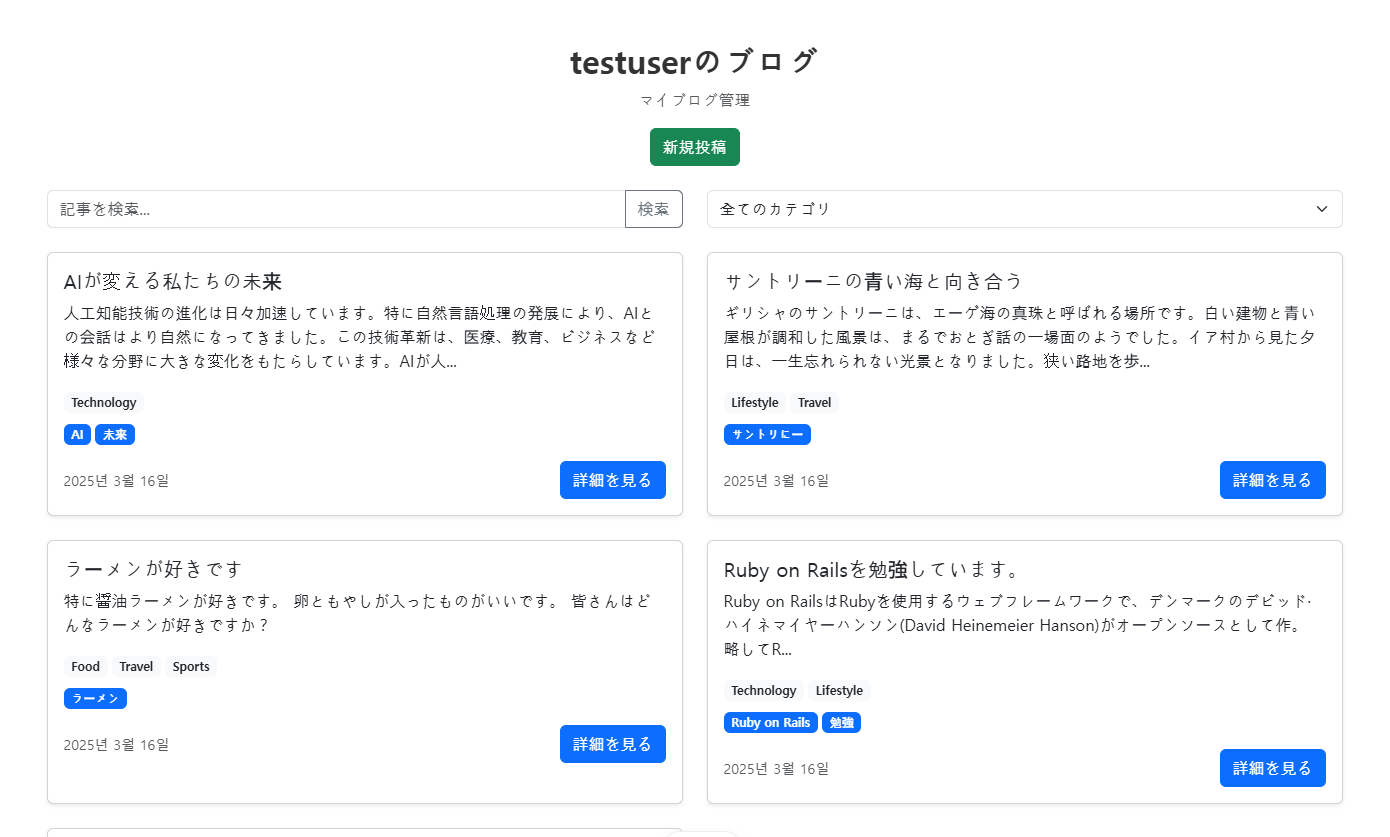
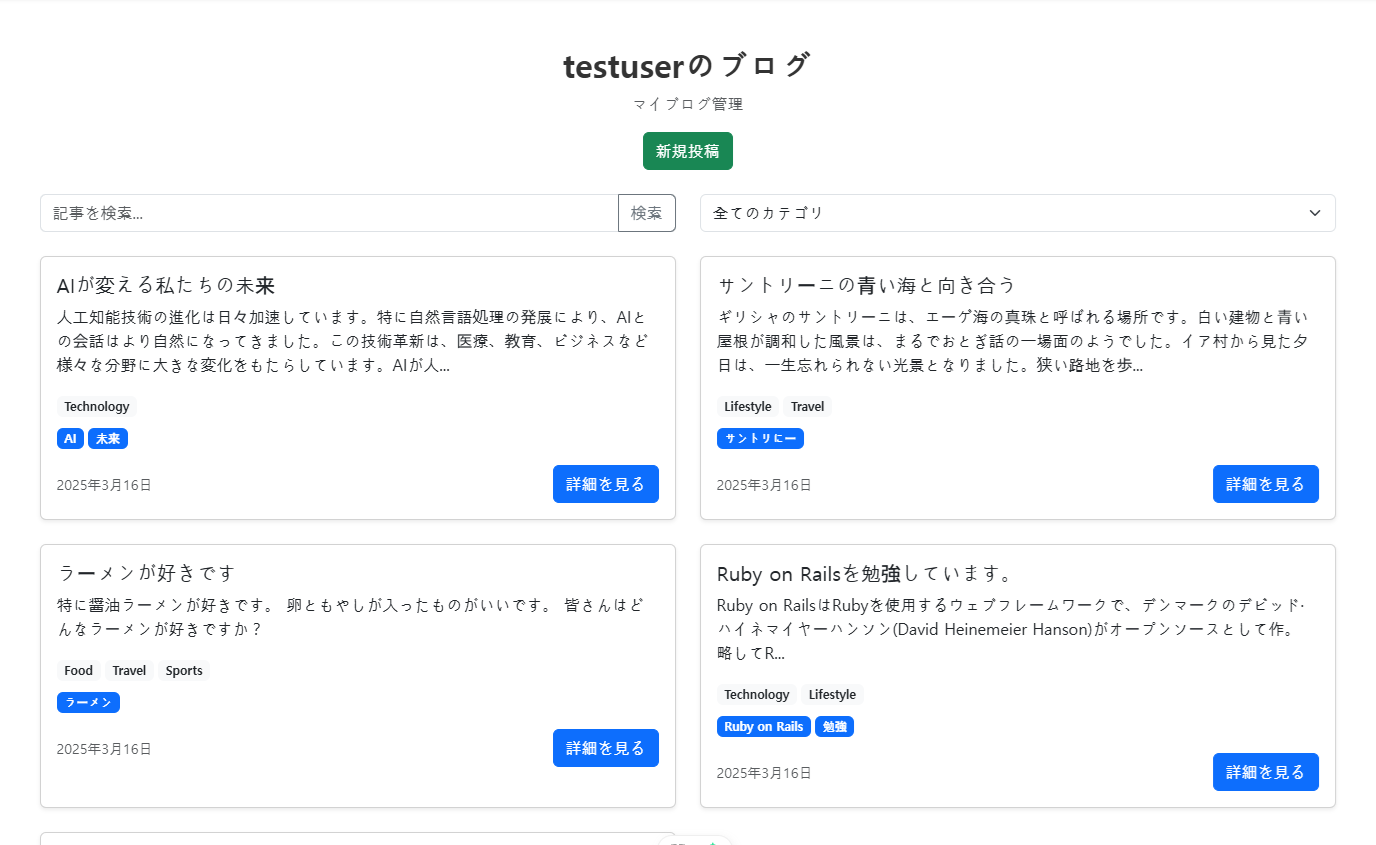
feat: EditPostView JP

diff --git a/frontend/mypjt/src/views/EditPostView.vue b/frontend/mypjt/src/views/EditPostView.vue
@@ -2,33 +2,33 @@
     <div class="container py-4">
       <h2 class="text-center mb-4">게시물 수정</h2>
       
-      <!-- 오류 메시지 -->
+      <!-- エラーメッセージ -->
       <div v-if="error" class="alert alert-danger">{{ error }}</div>
       
-      <!-- 로딩 상태 -->
+      <!-- ローディング状態 -->
       <div v-if="isLoading" class="text-center py-5">
         <div class="spinner-border text-primary"></div>
-        <p class="mt-2">게시물을 불러오는 중입니다...</p>
+        <p class="mt-2">記事を読み込む中</p>
       </div>
   
-      <!-- 게시물 수정 폼 -->
+      <!-- 投稿修正フォーム -->
       <div v-else class="row">
         <div class="col-lg-8 col-md-10 mx-auto">
           <form @submit.prevent="updatePost">
-            <!-- 제목 입력 -->
+            <!-- タイトル入力 -->
             <div class="mb-3">
-              <label for="title" class="form-label">제목</label>
+              <label for="title" class="form-label">タイトル</label>
               <input 
                 type="text" 
                 class="form-control" 
                 id="title" 
                 v-model="postForm.title" 
                 required 
-                placeholder="제목을 입력하세요"
+                placeholder="タイトルを入力してください"
               >
             </div>
             
-            <!-- 내용 입력 -->
+            <!-- 内容入力 -->
             <div class="mb-3">
               <label for="content" class="form-label">내용</label>
               <textarea 
@@ -37,11 +37,11 @@
                 v-model="postForm.content" 
                 rows="10" 
                 required 
-                placeholder="내용을 입력하세요"
+                placeholder="内容を入力してください"
               ></textarea>
             </div>
 
-          <!-- 해시태그 입력 영역 -->
+          <!-- タグ入力エリア -->
           <div class="mb-3">
             <label class="form-label">해시태그</label>
             <div class="d-flex align-items-center mb-2">
@@ -50,14 +50,14 @@
                 class="form-control me-2" 
                 v-model="newTag" 
                 @keyup.enter="addTag"
-                placeholder="해시태그 입력 (엔터로 추가)"
+                placeholder="タグを入力"
               >
               <button type="button" class="btn btn-primary" @click="addTag">
-                추가
+                タグを追加
               </button>
             </div>
             
-            <!-- 태그 목록 -->
+            <!-- タグ一覧 -->
             <div class="d-flex flex-wrap gap-2 mt-2">
               <span 
                 v-for="(tag, index) in postForm.tags" 
@@ -75,7 +75,7 @@
             </div>
           </div>
             
-            <!-- 카테고리 선택 -->
+            <!-- カテゴリ選択 -->
             <div class="mb-3">
               <label class="form-label">카테고리</label>
               <div class="d-flex flex-wrap">
@@ -95,14 +95,14 @@
             </div>
           
 
-            <!-- 버튼 그룹 -->
+            <!-- ボタン -->
             <div class="d-flex justify-content-between">
               <RouterLink :to="`/${username}/posts/${postId}`" class="btn btn-secondary">
-                취소
+                キャンセル
               </RouterLink>
               <button type="submit" class="btn btn-primary" :disabled="isSubmitting">
                 <span v-if="isSubmitting" class="spinner-border spinner-border-sm me-1"></span>
-                수정
+                投稿する
               </button>
             </div>
           </form>
@@ -122,11 +122,11 @@
   const authStore = useAuthStore();
   const API_URL = 'http://localhost:3000/api/v1';
   
-  // URL에서 id 가져오기
+  // URLからID取得
   const postId = ref(route.params.id || '');
   const username = ref(authStore.user?.username || '');
   
-  // 게시물 폼 데이터
+  // 投稿フォームデータ
   const postForm = ref({
     title: '',
     content: '',
@@ -134,47 +134,47 @@
     tags: [],
   });
   
-  // 상태 관리
+  // 状態管理
   const isLoading = ref(true);
   const isSubmitting = ref(false);
   const error = ref('');
   
-  // store에서 카테고리 가져오기
+  // storeからカテゴリ取得
   import { useBlogStore } from '@/stores/blog';
   const blogStore = useBlogStore();
   const categories = computed(() => blogStore.categories);
 
-    // 새 태그 입력
+    // 新タグ入力
   const newTag = ref('');
 
-  // 태그 추가 메서드
+  //タグ追加メソッド
   const addTag = () => {
     if (newTag.value.trim()) {
-      // 중복 태그 방지 및 공백 제거
+      // 重複タグの防止と空白の除去
       const cleanedTag = newTag.value.trim().replace(/^#/, '');
       
-      // 이미 존재하지 않는 태그만 추가
+      // 既に存在しないタグのみ追加
       if (!postForm.value.tags.includes(cleanedTag)) {
         postForm.value.tags.push(cleanedTag);
-        newTag.value = ''; // 입력 필드 초기화
+        newTag.value = ''; // 入力フィールド初期化
       }
     }
   };
 
-  // 태그 제거 메서드
+  // タグ削除メソッド
   const removeTag = (index) => {
     postForm.value.tags.splice(index, 1);
   };
   
-  // 게시물 정보 가져오기
+  // 記事情報取得
   const fetchPost = () => {
     isLoading.value = true;
     error.value = '';
     
-    // API 엔드포인트 설정 - 명세서에 맞게 수정
+    // API エンドポイント設定 
     const endpoint = `${API_URL}/${username.value}/posts/${postId.value}`;
     
-    // 세션 기반 인증이므로 별도 헤더 불필요
+    // セッションベース認証のため別途ヘッダー不要
     axios.defaults.withCredentials = true;
     
     axios({
@@ -186,7 +186,7 @@
       postForm.value.title = post.title;
       postForm.value.content = post.content;
       
-      // 카테고리와 태그 ID 설정
+      // カテゴリとタグID設定
       if (post.categories) {
         postForm.value.category_ids = post.categories.map(cat => cat.id);
       }
@@ -198,28 +198,28 @@
       isLoading.value = false;
     })
     .catch(err => {
-      console.error('게시물 로딩 오류:', err);
-      error.value = err.response?.data?.error || '게시물을 불러오는 중 오류가 발생했습니다.';
+      console.error('記事ロードエーラー:', err);
+      error.value = err.response?.data?.error || '投稿を読み込み中にエラーが発生しました。';
       isLoading.value = false;
     });
   };
   
-  // 게시물 수정 요청
+  //  投稿修正リクエスト
   const updatePost = () => {
     isSubmitting.value = true;
     error.value = '';
 
-    // 본문에서 해시태그 제거
+    // 本文からハッシュタグ削除
     const contentWithoutTags = postForm.value.content.replace(/\s*#\w+/g, '').trim();
     
-    // 본문에서 추출된 태그들
+    //　本文から抽出されたタグ
     const extractedTags = postForm.value.content.match(/#\w+/g)?.map(tag => tag.replace('#', '')) || [];
     
-    // 태그 입력 필드의 태그와 본문 해시태그 병합 (중복 제거)
+    // タグ入力フィールドのタグと本文ハッシュタグ統合（重複除去）
     const allTags = [...new Set([...postForm.value.tags, ...extractedTags])];
 
     
-    // 게시물 데이터 준비
+    // 投稿データ準備
     const postData = {
       post: {
         title: postForm.value.title,
@@ -231,7 +231,7 @@
     };
     
     console.log("postData = ", postData)
-    // API 요청
+    // APIリクエスト
     axios({
       method: 'put',
       url: `${API_URL}/posts/${postId.value}`,
@@ -241,8 +241,8 @@
       router.push(`/${username.value}/posts/${postId.value}`);
     })
     .catch(err => {
-      console.error('게시물 수정 오류:', err);
-      error.value = err.response?.data?.error || '게시물 수정에 실패했습니다';
+      console.error('記事修正エラー:', err);
+      error.value = err.response?.data?.error || '記事の修正に失敗しました。';
       isSubmitting.value = false;
     });
   };
@@ -253,6 +253,7 @@
   </script>
   
   <style scoped>
+  /* モバイルレスポンシブ */
   @media (max-width: 576px) {
     .form-check {
       width: 50%;

diff --git a/frontend/mypjt/src/views/PostDetailView.vue b/frontend/mypjt/src/views/PostDetailView.vue
@@ -11,7 +11,7 @@
         <p class="mt-2">記事を読み込み中です...</p>
       </div>
       
-      <!-- 게시물 내용 -->
+      <!--記事コンテンツ -->
       <div v-else-if="post.id" class="row">
         <div class="col-lg-10 col-md-12 mx-auto">
           <h1 class="mb-3">{{ post.title }}</h1>
@@ -112,7 +112,7 @@
     });
   }
   
-  // 게시물 삭제
+  // 記事削除
   const deletePost = () => {
     if (!confirm('本当にこの記事を削除しますか?')) return;
     
@@ -130,7 +130,7 @@
   const formatDate = (dateString) => {
     if (!dateString) return '';
     const options = { year: 'numeric', month: 'long', day: 'numeric' };
-    return new Date(dateString).toLocaleDateString('ko-KR', options);
+    return new Date(dateString).toLocaleDateString('ja-JP', options);
   }
   
   onMounted(() => {

diff --git a/frontend/mypjt/src/views/UserPostsView.vue b/frontend/mypjt/src/views/UserPostsView.vue
@@ -205,7 +205,7 @@ const getBlogPosts = () => {
 const formatDate = (dateString) => {
   if (!dateString) return '';
   const options = { year: 'numeric', month: 'long', day: 'numeric' };
-  return new Date(dateString).toLocaleDateString('ko-KR', options);
+  return new Date(dateString).toLocaleDateString('ja-JP', options);
 };
 
 // コンテンツの要約

diff --git a/README.md b/README.md
@@ -105,9 +105,12 @@ rails test test\controllers\api\v1\posts_controller_test.rb
 ## 📸 スクリーンショット
 
 ### 메인페이지
-- 게시글 목록 <br>
+- 記事リスト <br>
 <img src="./images/postlist.png"/>
+- モバイルレスポンシブ <br>
+<img src="./images/mobile.png"/>
 
+                                                            
 
 
 ## 📑 システムドキュメント
